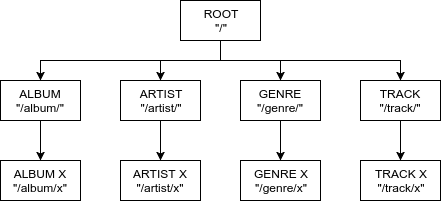
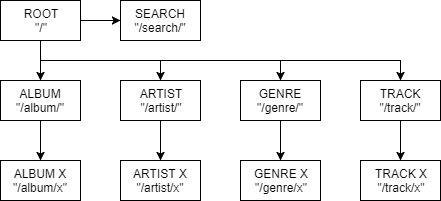
Add files via upload

diff --git a/report/latex/report.tex b/report/latex/report.tex
@@ -85,14 +85,14 @@
     \maketitle
     
     \section{Introduction}
-    \paragraph{Musix} is a directory of information about music, including genres, artists, albums and tracks. It allows you to browse through the information using links to each related page. It also includes a search function to quickly find pages that contain specific information.
+    \paragraph{Musix} is a directory of information about music, including genres, artists, albums and tracks. It was written with the Flask framework, using Python. It utilised HTML, CSS and Javascript to provide content to the user. It allows the user to browse through information using links to each related page, and includes a search function to quickly find pages that contain specific information. There are specific pages for listing the genres, artists, albums and tracks, and each page on a specific entry details information and links to related pages.
     
     \figuremacro{h}{images/main.png}{}{The home page of Musix}{1.0}
     
     \section{Design}
     \paragraph{Musix} was designed for ease of use, combining multiple elements to provide the functionality required by the user. It has a header bar for easy navigation, and the rest of the page is dedicated to content. The URL hierarchy has also been structured in a way that makes sense, and even allows the user to navigate and search using the URL bar.
-    \paragraph{It} dynamically populates the page with any information available, and in the absence of content, will redirect errors to a page explaining to the user what has happened.
-    \paragraph{The} data is also designed to be structured in a way that is both efficient, keeping redundant data to a minimum, and easy to search for. It also allows links to be created even if the target page does not exist, allowing easy identification of pages that need to be populated with information
+    \paragraph{It} dynamically populates the page with any information available, and in the absence of content, will redirect errors to a page explaining to the user what has happened. This allows more pages to be added by justupdating the JSON data files with more information, links will be generated automatically.
+    \paragraph{The} data is also designed to be structured in a way that is both efficient, keeping redundant data to a minimum, and easy to search for. It also allows links to be created even if the target page does not exist, allowing easy identification of pages that need to be populated with information.
     
     \figuremacro{H}{images/URL.png}{}{The URL structure}{1.0}
     
@@ -101,6 +101,7 @@
     \paragraph{Another} interactive feature would be allowing users to create playlists of their favourite music, or based on their preferences. Pages could also benefit from the inclusion of other media, such as embedded audio and video for listening to music and watching music videos, and pictures of the artists or album covers.
     \paragraph{Searching} could also be improved by adding a fuzzy search option, allowing the user to make typos while still return relevant information, or suggesting pages based on prediction.
     \paragraph{Additionally}, Musix could add some styling options, allowing the user to switch between a light and dark theme, increasing readability in the daytime and nighttime.
+    \paragraph{More} information could also be added about each item, such as the track BPM, number of sales, awards won etc. It could also have a feature where users can upload information themselves, allowing faster growth of the website.
     
     \section{Critical Evaluation}
     \paragraph{Musix} has a simple URL hierarchy. I believe this works very well as it won't be confusing for users and it allows pages to be generated dynamically. I am particularly pleased with the HTML templates, as all the hyperlinks on a page are dynamically generated with the information given in the JSON data files. This allows the website to scale based only on what data is available in the JSON files, no other URL paths need to be hard coded. There is a down side to this, where a typo in the information would break the hyperlink, making it unable to find the page referenced. However, since editing the data is down to the maintainers, there's little room for large scale errors as it should be more consistent.
@@ -109,7 +110,8 @@
     \paragraph{The} biggest issue I currently see Musix facing is the amount of time to load the JSON data files, as they can become very large very quickly. There also isn't a particularly easy way to edit them or add/remove elements of the data objects.
     
     \section{Personal Evaluation}
-    \paragraph{I} feel that I performed adequately, being able to apply what I've learned about python and flask for routing requests, jinja templating for allowing dynamic HTML pages to be generated for the user, and producing a simple and efficient way of storing the data that the web app displays. I also feel that I managed well with what python knowledge I have to deal with all the data, collecting all the relevant information and managing to search through it all. I ran in to some trouble getting a nice interface to fill with content, choosing to settle for a simple, though functional, design with the help of bootstrap\cite{Bootstrap} and W3Schools\cite{W3Schools}. However, I definitely could have spent more time branching out my knowledge of HTML/CSS.
+    \paragraph{I} feel that I performed adequately, being able to apply what I've learned about python and flask for routing requests, jinja templating for allowing dynamic HTML pages to be generated for the user, and producing a simple and efficient way of storing the data that the web app displays. I also feel that I managed well with what python knowledge I have to deal with all the data, collecting all the relevant information and managing to search through it all. I ran in to some trouble getting a nice interface to fill with content, choosing to settle for a simple, though functional, design with the help of bootstrap\cite{Bootstrap} and W3Schools\cite{W3Schools}. However, I definitely could have spent more time branching out my knowledge of HTML/CSS. Opting to use bootstrap\cite{Bootstrap} did, however, allow me to have a consistent style, both visually and structuring my HTML pages.
+    
     
     \bibliographystyle{ieeetr}
     \bibliography{references}
